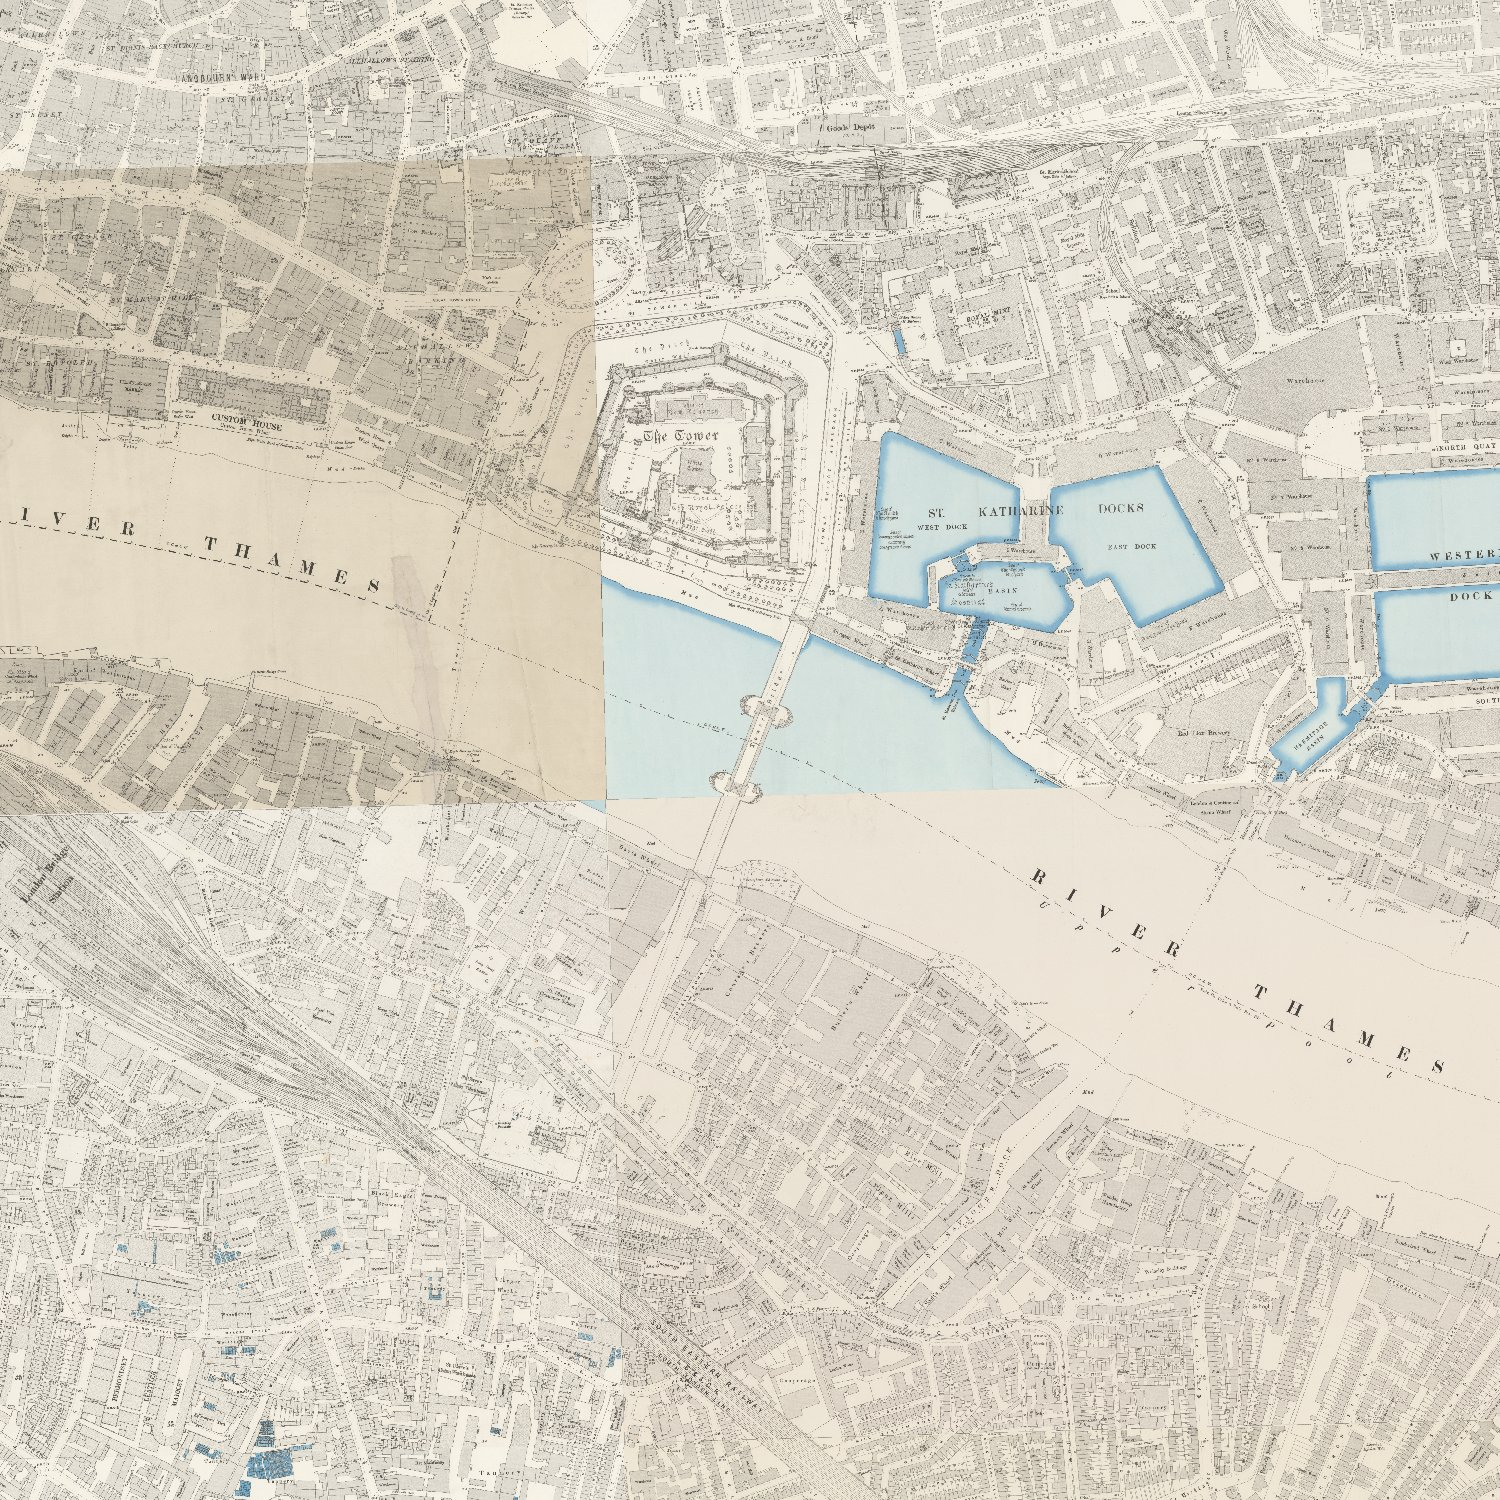
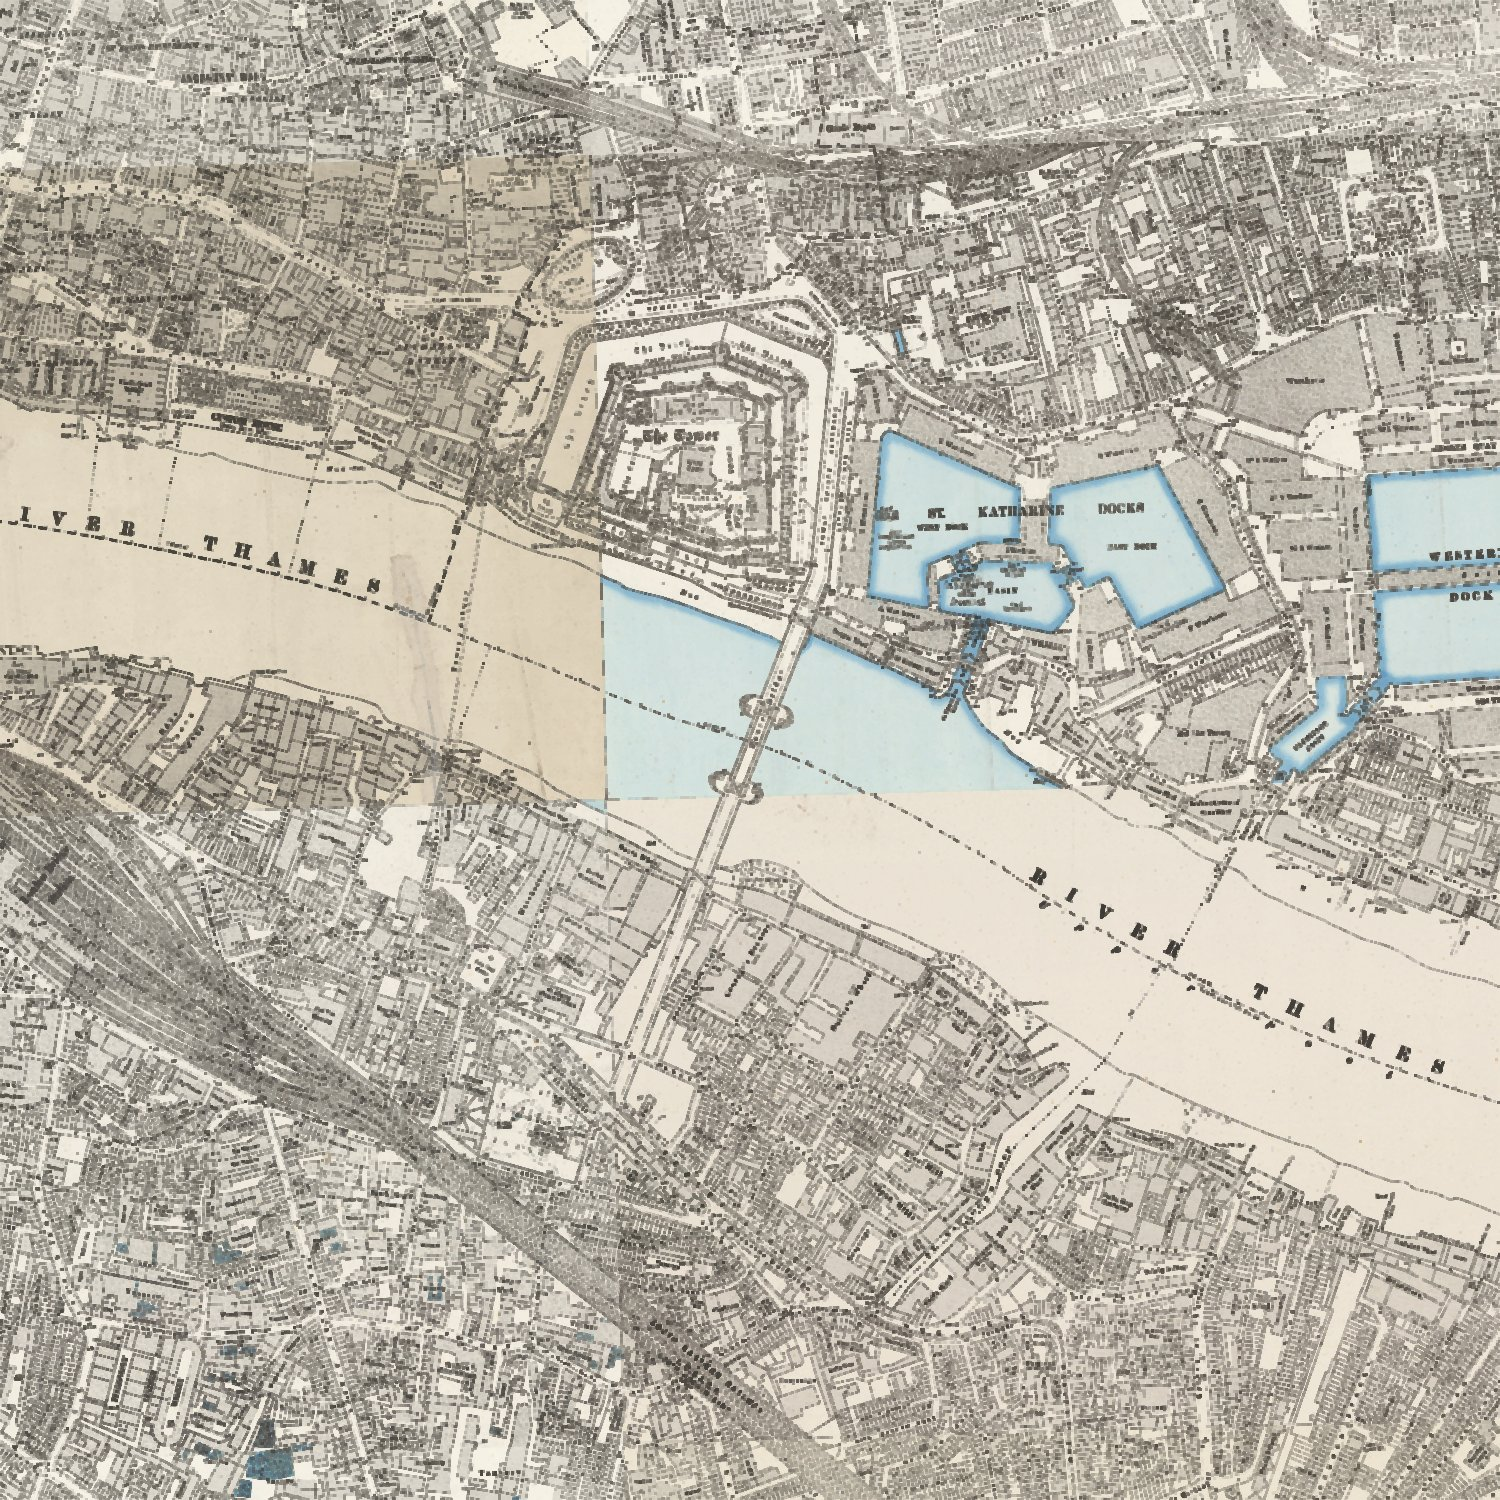
Terrain 1890: warm paper and stronger ink on the old map
The OS sheet's ink is thickened in the asset (3 px min filter) so street lines survive the
mipmaps seen from orbit. The shader maps the sheet's luminance from dark-brown ink to warm
paper, keeping a little of its own hue; the paper albedo is set so it renders about
#d9c49a in full light (measured 207,193,157 on a headless still at 1890).

diff --git a/web/src/scene/Terrain.jsx b/web/src/scene/Terrain.jsx
@@ -106,15 +106,20 @@ function Ground() {
 
 // Aerial imagery only sees roofs, so draped walls smear into streaks. On steep faces, swap to a
 // blurred sample of the imagery (a far mip) toned toward London stone, which reads as a clean facade.
-// The 1890s OS sheet in its own colours with a light sepia. It is pale paper: at full albedo the sun and HDRI
-// wash it to white, so it is drawn at about a third. The grade runs on gamma-encoded colour because the map
-// sample is linear here. ERA is 1 while the old map is draped; then the ground is bare earth (aOld), flat-lit.
+// The 1890s OS sheet as an old map: its paper renders as warm #d9c49a stock in full light (the albedo is
+// warmer still to offset the blue sky fill, measured on a still) and its ink as dark brown, with a
+// little of the sheet's own hue kept (blue water, tinted blocks). The tone runs on gamma-encoded colour
+// because the map sample is linear here; ERA_GAIN sets how bright the paper sits under the scene light.
+// ERA is 1 while the old map is draped; then the ground is bare earth (aOld), flat-lit.
 const ERA = { value: 0 }
+const ERA_GAIN = '1.0'
 const ERA_GRADE = `
   vec3 eraGrade(vec3 c) {
     vec3 s = pow(max(c, 0.0), vec3(1.0 / 2.2));
-    vec3 t = mix(s, s * vec3(1.0, 0.9, 0.74), 0.55);
-    return mix(c, pow(t, vec3(2.2)) * 0.32, uEra);
+    float l = dot(s, vec3(0.3, 0.59, 0.11));
+    vec3 tone = mix(vec3(0.30, 0.21, 0.13), vec3(0.957, 0.816, 0.58), smoothstep(0.30, 0.88, l));
+    vec3 t = mix(tone, tone * s / max(l, 0.05), 0.35);
+    return mix(c, pow(clamp(t, 0.0, 1.0), vec3(2.2)) * ${ERA_GAIN}, uEra);
   }`
 
 function facades(shader) {

diff --git a/scripts/history/fetch_1890s.py b/scripts/history/fetch_1890s.py
@@ -12,7 +12,7 @@ from pathlib import Path
 import urllib.request
 
 import numpy as np
-from PIL import Image
+from PIL import Image, ImageFilter
 from pyproj import Transformer
 
 ROOT = Path(__file__).resolve().parents[2]
@@ -55,7 +55,8 @@ def main():
     iy = np.clip((py - y0 * 256).astype(int), 0, mosaic.shape[0] - 1)
     out = mosaic[iy, ix]
     assert out.shape == (h, w, 3) and out.std() > 10, "mosaic is blank: tiles did not load"
-    Image.fromarray(out).save(OUT / "color-1890s.jpg", quality=85)
+    # ink lines are ~1 px; a 3 px min filter thickens them so they survive the mipmaps seen from orbit
+    Image.fromarray(out).filter(ImageFilter.MinFilter(3)).save(OUT / "color-1890s.jpg", quality=85)
     print(f"{(x1 - x0 + 1) * (y1 - y0 + 1)} tiles -> {OUT / 'color-1890s.jpg'}")
 
 
